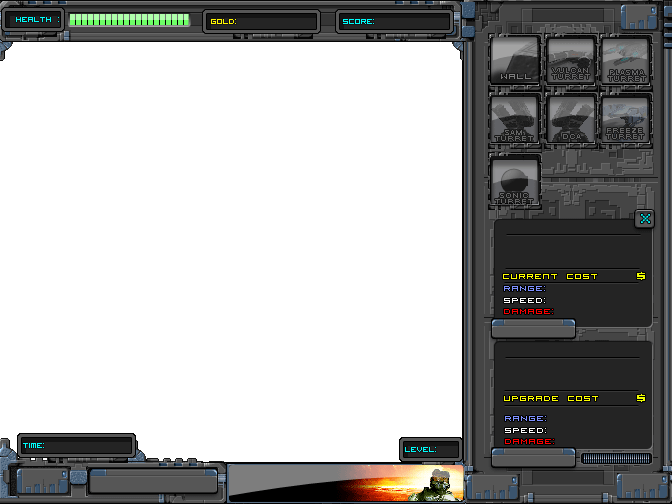
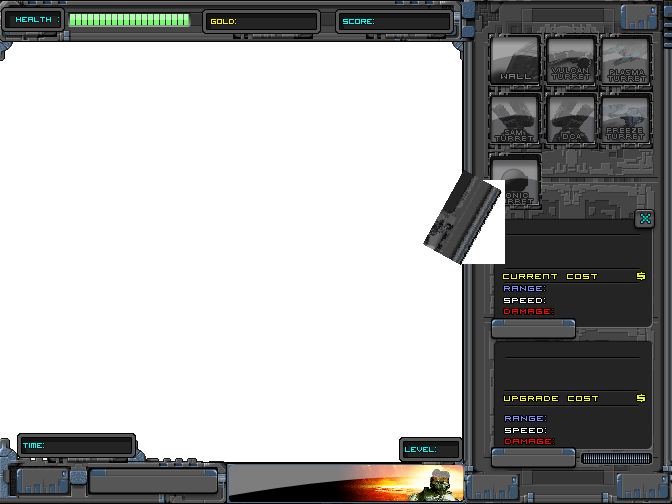
몬스터 구현중

Changed region(s): [[0.625, 0.3274, 0.75, 0.5357]]

diff --git a/Monster.cpp b/Monster.cpp
@@ -1,0 +1,105 @@
+#include "stdafx.h"
+#include "Monster.h"
+
+Monster::Monster(const std::string& name)
+	: GameObject(name)
+{
+}
+
+void Monster::SetPosition(const sf::Vector2f& pos)
+{
+	GameObject::SetPosition(pos);
+	body.setPosition(pos);
+}
+
+void Monster::SetRotation(float rot)
+{
+	GameObject::SetRotation(rot);
+	body.setRotation(rot);
+}
+
+void Monster::SetScale(const sf::Vector2f& s)
+{
+	GameObject::SetScale(s);
+	body.setScale(s);
+}
+
+void Monster::SetOrigin(const sf::Vector2f& o)
+{
+	GameObject::SetOrigin(o);
+	body.setOrigin(o);
+}
+
+void Monster::SetOrigin(Origins preset)
+{
+	GameObject::SetOrigin(preset);
+	if (preset != Origins::Custom)
+	{
+		Utils::SetOrigin(body, preset);
+	}
+}
+
+void Monster::Init()
+{
+	sortingLayer = SortingLayers::Foreground;
+	sortingOrder = 0;
+
+
+	AnimationClip clip;
+	clip.setId("monster_move");
+	clip.setFps(4);
+	clip.setLoopType(AnimationLoopTypes::Loop);
+
+	/*auto& tex = TEXTURE_MGR.Get("graphics / monster.png");
+	int cols = 4;
+	int raws = 2;
+	int frameW = tex.getSize().x / cols;
+	int frameH = tex.getSize().y / raws;
+	for (int i = 0; i < cols; ++i)
+	{
+		for (int j = 0; j < raws; ++j)
+		{
+			sf::IntRect rect(i * frameW, j * frameH, frameW, frameH);
+			clip.addFrame("monster_move");
+		}
+	}*/
+
+	SetType(type);
+}
+
+void Monster::Release()
+{
+}
+
+void Monster::Reset()
+{
+	hp = maxHp;
+}
+
+void Monster::Update(float dt)
+{
+}
+
+void Monster::Draw(sf::RenderWindow& window)
+{
+}
+
+void Monster::SetType(Types type)
+{
+	this->type = type;
+	switch (this->type)
+	{
+		case Types::Monster1:
+			texId = "";
+			maxHp = 200;
+			speed = 50;
+			damage = 1;
+			break;
+	/*case Types::Monster2:
+			texId = "";
+			maxHp = 200;
+			speed = 50;
+			damage = 1;
+			break;*/
+	}
+}

diff --git a/Scenes/SceneRound1.cpp b/Scenes/SceneRound1.cpp
@@ -4,6 +4,7 @@
 #include "ResourceMgr.h"
 #include <SFML/Graphics.hpp>
 #include <algorithm>
+#include "Monster.h"
 
 SceneRound1::SceneRound1()
 	: Scene(SceneIds::Round1)
@@ -16,7 +17,8 @@ void SceneRound1::Init()
 	
 	std::vector<std::string> texList = {
 		"map/gameui.png",
-		"map/gameround1.png"
+		"map/gameround1.png",
+		"graphics/monster.png"
 	};
 	TEXTURE_MGR.Load(texList);
 
@@ -49,10 +51,19 @@ void SceneRound1::Update(float dt)
 
 	//if (tileMap)
 	//	tileMap->Update(dt);
+
+
 }
 
 void SceneRound1::Draw(sf::RenderWindow& window)
 {
+	/*sf::Vector2i pixelPos = sf::Mouse::getPosition(window);
+	sf::Vector2f worldPos = window.mapPixelToCoords(pixelPos);
+	std::cout << "Mouse Pixel: ("
+		<< pixelPos.x << ", " << pixelPos.y << ")  "
+		<< "World Pos: ("
+		<< worldPos.x << ", " << worldPos.y << ")"
+		<< std::endl;*/
 	Scene::Draw(window);
 	//if (tileMap)
 	//	tileMap->Draw(window);
@@ -63,4 +74,34 @@ void SceneRound1::Release()
 {
 
 	Scene::Release();
+}
+
+void SceneRound1::MonsterSpawn(int count)
+{
+	for (int i=0; i<count;++i)
+	{
+		Monster* monster = nullptr;
+		if (monsterPool.empty())
+		{
+			monster = (Monster*)AddGameObject(new Monster());
+			monster->Init();
+		}
+		else
+		{
+			monster = monsterPool.front();
+			monsterPool.pop_back();
+			monster->SetActive(true);
+		}
+
+		monster->SetType((Monster::Types)Utils::RandomRange(0, Monster::TotalTypes));
+		sf::Vector2f spawnPos;
+		spawnPos.x = Utils::RandomRange(-20, -10);
+		spawnPos.y = Utils::RandomRange(200, 310);
+		monster->SetPosition(spawnPos);
+		monster->Reset();	
+
+
+		monsterList.push_back(monster);
+	}
+	
 }

diff --git a/Monster.h b/Monster.h
@@ -1,0 +1,63 @@
+#pragma once
+#include "GameObject.h"
+#include "SceneRound1.h"
+#include "Animator.h"
+#include <SFML/Graphics.hpp>
+
+class Monster : public GameObject
+{
+public:
+	enum class Types
+	{
+		Monster1,
+		Monster2,
+		Monster3,
+	};
+	static const int TotalTypes = 3;
+protected:
+	sf::Sprite body;
+
+	Types type = Types::Monster1;
+
+	int maxHp = 0;
+	int speed = 0;
+	int damage = 1;
+	int hp;
+
+	Animator animator;
+	std::string texId;
+	int cols = 1;
+	int rows = 1;
+	float frameDuration = 0.1f;
+
+
+public:
+	Monster(const std::string& name = "");
+	virtual ~Monster() = default;
+
+	void SetPosition(const sf::Vector2f& pos) override;
+	void SetRotation(float rot) override;
+	void SetScale(const sf::Vector2f& s) override;
+	void SetOrigin(const sf::Vector2f& o) override;
+	void SetOrigin(Origins preset) override;
+
+	void Init() override;
+	void Release() override;
+	void Reset() override;
+	void Update(float dt) override;
+	void Draw(sf::RenderWindow& window) override;
+
+
+	void SetType(Types type);
+
+	sf::FloatRect GetLocalBounds() const override
+	{
+		return body.getLocalBounds();
+	}
+
+	sf::FloatRect GetGlobalBounds() const override
+	{
+		return body.getGlobalBounds();
+	}
+};
+

diff --git a/Scenes/SceneRound1.h b/Scenes/SceneRound1.h
@@ -5,6 +5,7 @@
 #include <SFML/Graphics.hpp>
 
 class TileMap;
+class Monster;
 
 class SceneRound1 : public Scene
 {
@@ -13,6 +14,9 @@ protected:
 
 	sf::Sprite uiSprite;
 	sf::Sprite BackgroundSprite;
+
+	std::list<Monster*> monsterList;
+	std::list<Monster*> monsterPool;
 public:
 	
 
@@ -25,5 +29,6 @@ public:
 	void Update(float dt) override;
 	void Draw(sf::RenderWindow& window) override;
 	void Release() override;
+	void MonsterSpawn(int count);
 };
 

diff --git a/Framework/AnimationClip.h b/Framework/AnimationClip.h
@@ -25,5 +25,14 @@ struct AnimationClip
 	std::vector<AnimationFrame> frames;
 
 	bool loadFromFile(const std::string& filePath);
+
+	void setId(const std::string& newId) { id = newId; }
+	void setFps(int newFps) { fps = newFps; }
+	void setLoopType(AnimationLoopTypes lt) { loopType = lt; }
+	void addFrame(const std::string& texId,
+		const sf::IntRect& rect)
+	{
+		frames.emplace_back(texId, rect);
+	}
 };
 
